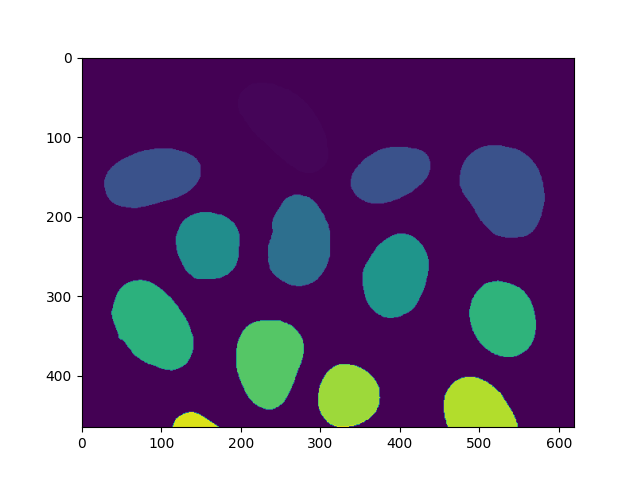
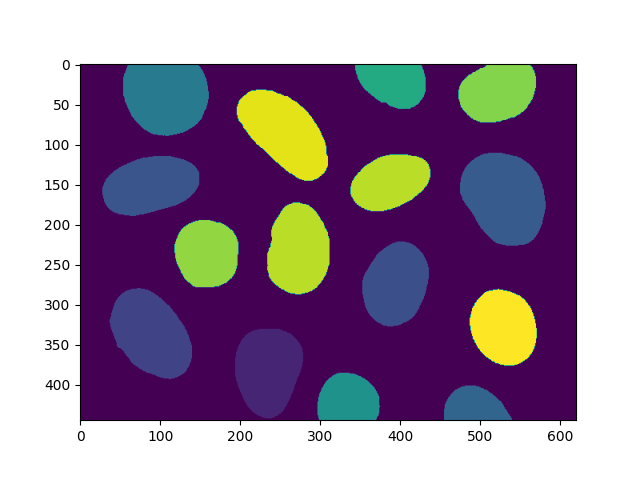
fixed connected componnet analysis, added documentation

diff --git a/Project 3 Morphological Filters/cellBoundries.py b/Project 3 Morphological Filters/cellBoundries.py
@@ -9,26 +9,36 @@ import matplotlib.pyplot as plottool
 import cv2
 from skimage import io
 import numpy as np
+import random
 
+#same erosion function found in previous file (morphologicalprocessing.py)
 def erosion(i,j):
     s=0
     s= padded[i-1][j-1][0]*struct[0][0]+padded[i-1][j][0]*struct[0][1]+padded[i-1][j + 1][0]*struct[0][2]+padded[i][j-1][0]*struct[1][0]+ padded[i][j][0]*struct[1][1]+padded[i][j + 1][0]*struct[1][2]+padded[i + 1][j-1][0]*struct[2][0]+padded[i + 1][j][0]*struct[2][1]+padded[i + 1][j + 1][0]*struct[2][2]     
     if s>1024: # value chosed bc 256 * 4 = 1024, if the value is greater than 1024, than 5 pixels must have been hit
         return [255,255,255]
     return [0,0,0]
+
+#this function is to determine which components are conneceted
 def connectedComponentAnalysis():
-  
-   
     #create static identifier for unique values
-    id = 1  
+    id = 100 
+
+    #step 1: first pass to give temperary id to elements
     #loop through image
     for i in range(1,cellsImage.shape[0]):
         for j in range(1,cellsImage.shape[1]):
+            #if a value is not 0 and has not been id'd yet
             if padded[i][j][0] >0 and componentsArray[i][j]==0:
+                # call depth first seatch on this pixel
                 dfs(padded,i,j,id)
-                id+=1
-    print(id)
+                #update id
+                id+=50
+    # correct for previous padding            
     ccomponentsArray = componentsArray[0:componentsArray.shape[0]-20,0:componentsArray.shape[1]]
+    
+    #step 2: combine connected id's to find final number
+    # this nested loop below compares each pixel to its 8-nieghbors and choses the smallest value of the bunch
     for i in range(1,ccomponentsArray.shape[0]-1):    
         for j in range(1,ccomponentsArray.shape[1]-1):
             if ccomponentsArray[i+1][j] < ccomponentsArray[i][j] and ccomponentsArray[i+1][j]!=0:
@@ -47,7 +57,8 @@ def connectedComponentAnalysis():
                 ccomponentsArray[i][j] = ccomponentsArray[i][j-1]
             if ccomponentsArray[i+1][j-1] < ccomponentsArray[i][j] and ccomponentsArray[i+1][j-1]!=0:
                 ccomponentsArray[i][j] = ccomponentsArray[i+1][j-1]
-    
+
+    #finally we count how many values are total after combining
     count=0
     last=[]
     for i in range(ccomponentsArray.shape[0]):
@@ -55,28 +66,46 @@ def connectedComponentAnalysis():
             if ccomponentsArray[i][j]!=0 and last.count(ccomponentsArray[i][j])==0 :
                 count+=1
                 last.append(ccomponentsArray[i][j])
+    
+    #how many unique numbers = unique cells
     print("Number of unique cells: ", count)
-    print(last)
+    
+    #change label values for colors to look more unique in image
+    for i in range(ccomponentsArray.shape[0]):
+        for j in range(ccomponentsArray.shape[1]):
+            ccomponentsArray[i][j] = ccomponentsArray[i][j]%255
+    
+    #return our components array
+    return ccomponentsArray, count        
 
+#simple depth first search to find each connected component
 def dfs(image, i, j , id):
     
     #create stack for depth first search
     stack = []
+
+    #id current pixel
     componentsArray[i][j] = id
+
+    #dfs, adding each un-id'd to the stack an id'ing it, then popping next element off stack 
     while True:
         for p in range(-1,2):
             for q in range(-1,2):
                 if image[(i+p)%image.shape[0]-1][j+q][0]!=0 and componentsArray[(i+p)%image.shape[0]-2][j+q]==0:
                     stack.append((i+p,j+q))
                     componentsArray[(i+p)%image.shape[0]-2][j+q]=id
+        
+        #base case (to break out of loop eventually)
         if len(stack)==0:
             break
-
+        
+        #move on to next stack value
         val = stack.pop()
+        #id next stack value
         componentsArray[val[0]%image.shape[0]-2,val[1]] = id
+        #update i,j so we continue to move around image
         i,j = val
 
-struct = [[0,1,0],[1,1,1],[0,1,0]]
 
 #define image path for cell image
 cellsPath = 'input/cell.jpg'
@@ -87,9 +116,11 @@ cellsImage = io.imread(cellsPath)
 #color correction
 cellsImage = cv2.cvtColor(cellsImage, cv2.COLOR_BGR2RGB)
 
-output = cellsImage.copy()
-#threshold the image
+#display original imge
+plottool.imshow(cellsImage)
+plottool.show()
 
+#threshold the image
 for i in range (cellsImage.shape[0]):
     for j in range(cellsImage.shape[1]):
         if cellsImage[i][j][0] > 10:
@@ -97,25 +128,37 @@ for i in range (cellsImage.shape[0]):
         else:
             cellsImage[i][j] = [0,0,0]
 
-
 #pad image 
 padded = cv2.copyMakeBorder(cellsImage,1,1,1,1,cv2.BORDER_CONSTANT,value=[0,0,0])
-#plottool.imshow(cellsImage)
-#plottool.show()
+
 #create an array of integers to store where each connected component is
 componentsArray = np.full((cellsImage.shape[0],cellsImage.shape[1],1),0,dtype=int)
+
+#define structure for erosion
+struct = [[0,1,0],[1,1,1],[0,1,0]]
+
+#define output for erosion
+output = cellsImage.copy()
+
+#erode image to remove any extruding inperfections that may interfere with our algoritm
 for i in range (cellsImage.shape[0]):
     for j in range(cellsImage.shape[1]):
         output[i][j] = erosion(i,j)
+
+#update image to our eroded image
 cellsImage = output
 
-#display original image
-#plottool.imshow(cellsImage)
-#plottool.show()
+#display image after threshold and erosion
+plottool.imshow(cellsImage)
+plottool.savefig('output/morph/cells/thresholded&Eroded.png')
+plottool.show()
 
-connectedComponentAnalysis()
+#apply connected component analysis to determine how many cells are in the image
+out, count = connectedComponentAnalysis()
 
-plottool.imshow(componentsArray)
+#display output of connected component function
+plottool.imshow(out)
 plottool.savefig('output/morph/cells/CCA.png')
 plottool.show()
 
+#create array to hold count values
